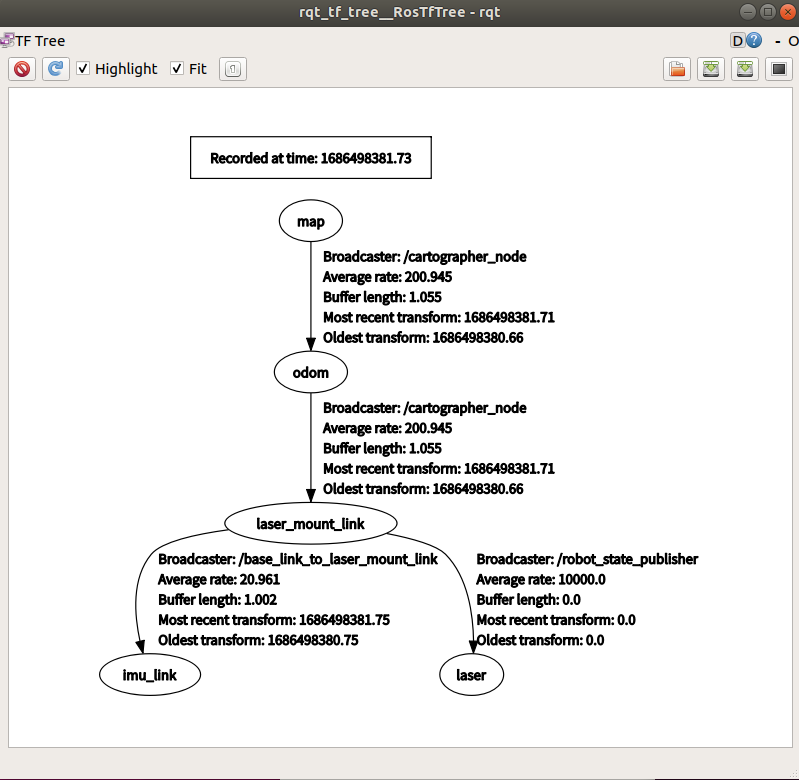
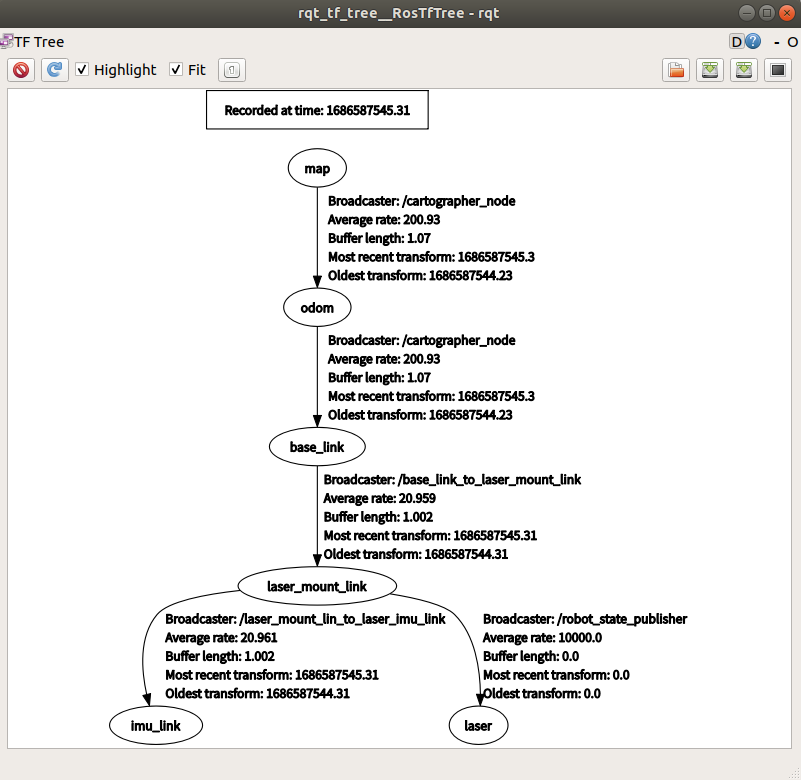
优化代码框架

diff --git a/README.md b/README.md
@@ -126,8 +126,8 @@ options = {
   map_builder = MAP_BUILDER,
   trajectory_builder = TRAJECTORY_BUILDER,
   map_frame = "map",
-  tracking_frame = "laser_mount_link",
-  published_frame = "laser_mount_link",
+  tracking_frame = "base_link",
+  published_frame = "base_link",
   odom_frame = "odom",
   provide_odom_frame = true,
   publish_frame_projected_to_2d = false,
